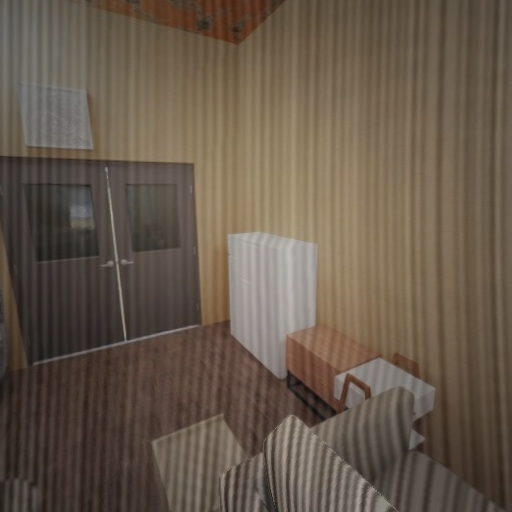
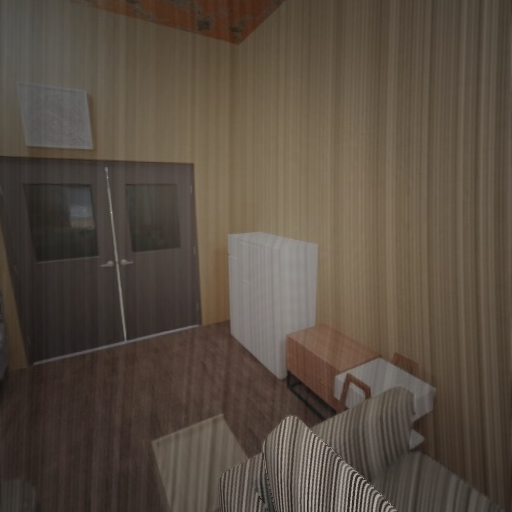
projector参数调整
使u,v基本覆盖整个pattern图像，并相应调整了DOF和叠加的参数，更新了样图

diff --git a/SLSim.py b/SLSim.py
@@ -7,11 +7,6 @@ import torch.nn.functional as F
 from scipy.ndimage import map_coordinates
 import matplotlib.pyplot as plt
 
-intrinsics = np.array([[297.6375381033778,0.0,255.5,0.00],
-                       [0.0,297.6375381033778,255.5,0.00],
-                       [0.0 ,0.0             ,1.0  ,0.00],
-                       [0.00,0.00            ,0.00 ,1.00]])
-
 cam2proj = np.array([[1.00, 0.00, 0.00, 0.20],
                     [0.00, 1.00, 0.00, 0.00],
                     [0.00, 0.00, 1.00, -0.10],
@@ -97,6 +92,36 @@ def simulate_occlusion_blur(image, mask_ratio=0.05):
             image[y1:y2, x1:x2] = cv2.GaussianBlur(patch, (5,5), 3)
     return image
 
+def visualize_pattern_usage(u, v, pattern_shape):
+    """
+    显示哪些 pattern 图案区域在投影过程中被使用了
+
+    参数：
+        u, v: 反投影后 pattern 图像平面上的像素坐标（通常为浮点）
+        pattern_shape: pattern 图像的形状 (H, W)
+    """
+    h_pat, w_pat = pattern_shape[:2]
+    
+    # 将坐标转换为整数索引，并裁剪到合法范围
+    u_idx = np.round(u).astype(np.int32)
+    v_idx = np.round(v).astype(np.int32)
+
+    valid_mask = (u_idx >= 0) & (u_idx < w_pat) & (v_idx >= 0) & (v_idx < h_pat)
+
+    usage_map = np.zeros((h_pat, w_pat), dtype=np.uint8)
+    usage_map[v_idx[valid_mask], u_idx[valid_mask]] = 255
+
+    plt.figure(figsize=(8, 6))
+    plt.title("Pattern Usage Map")
+    plt.imshow(usage_map, cmap='gray')
+    plt.xlabel("Pattern Width")
+    plt.ylabel("Pattern Height")
+    plt.colorbar(label='Used (255) vs Unused (0)')
+    plt.tight_layout()
+    plt.show()
+
+    return usage_map
+
 def main():
     path1 = ".//Data//rgb//0000003.jpg"
     image = cv2.imread(path1)#(512, 512, 3)
@@ -104,31 +129,32 @@ def main():
     depth = cv2.imread(path2,cv2.IMREAD_UNCHANGED)#(512, 512)
     path3 = ".//Data//pattern//alacarte.png"
     pattern = cv2.imread(path3, cv2.IMREAD_UNCHANGED)#(1280,800)
+    intrinsics = np.array([[297.6375381033778,0.0,255.5,0.00],
+                            [0.0,297.6375381033778,255.5,0.00],
+                            [0.0 ,0.0             ,1.0  ,0.00],
+                            [0.00,0.00            ,0.00 ,1.00]])
     point_cloud = depth_to_point_cloud(depth, intrinsics)
 
     depth = depth.astype(np.float32) / 1000.0  # Convert depth to meters
 
     point_cloud = depth_to_point_cloud(depth, intrinsics)  # shape: (h, w, 3)
     proj_points = transform_point_cloud(point_cloud, cam2proj)  # shape: (h, w, 3)
-    K_proj = intrinsics[:3, :3]
+    K_proj = intrinsics = np.array([[680,0.0,590,0.00],
+                                    [0.0,380,350,0.00],
+                                    [0.0 ,0.0,1.0  ,0.00],
+                                    [0.00,0.00,0.00 ,1.00]])
     u, v = project_to_pattern_plane(proj_points, K_proj)
+    # usage_map = visualize_pattern_usage(u, v, pattern.shape)
+
     projected_image = sample_pattern(u, v, pattern)  # shape (H, W, 3)
     projected_image = apply_depth_attenuation(projected_image, proj_points[:, :, 2])
-    projected_image = apply_depth_blur(projected_image, proj_points[:, :, 2], focus=depth.min()+0.1, strength=3)
+    #projected_image = apply_depth_blur(projected_image, proj_points[:, :, 2], focus=depth.min()+0.1, strength=3)
     #projected_image = simulate_occlusion_blur(projected_image, mask_ratio=0.05)
 
     rgb_img = image.copy()
-    overlay_img = cv2.addWeighted(rgb_img, 0.8, projected_image, 0.5, 0)
+    overlay_img = cv2.addWeighted(rgb_img, 0.65, projected_image, 0.5, 0)
 
-    import matplotlib.pyplot as plt
-    plt.figure(figsize=(12, 6))
-    plt.title("RGB with Structured Light Projection")
-    plt.imshow(cv2.cvtColor(overlay_img, cv2.COLOR_BGR2RGB))
-    plt.axis("off")
-    plt.tight_layout()
-    plt.show()
-
-    cv2.imwrite(".//generated//alacarte_DOF.png", overlay_img)
+    cv2.imwrite(".//generated//alacarte_origin.png", overlay_img)
 
 if __name__ == "__main__":
     main()
